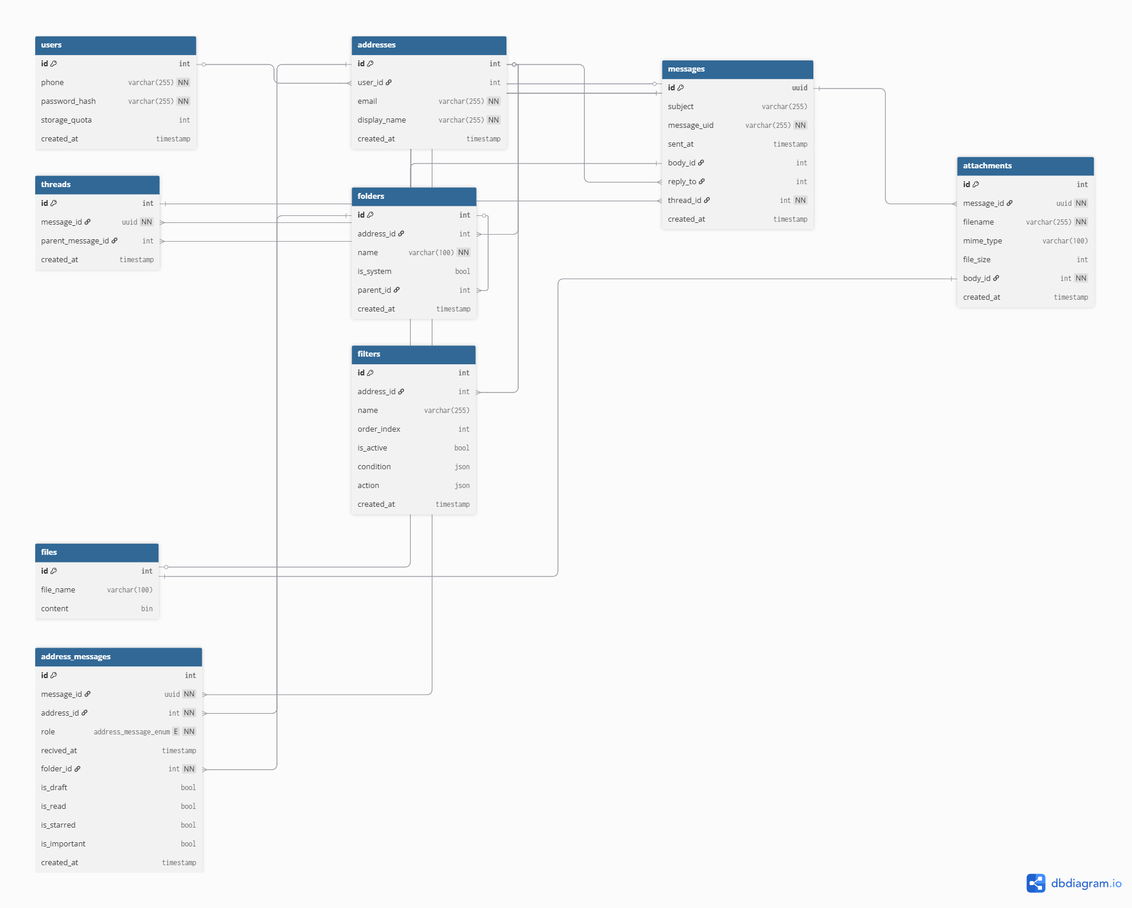
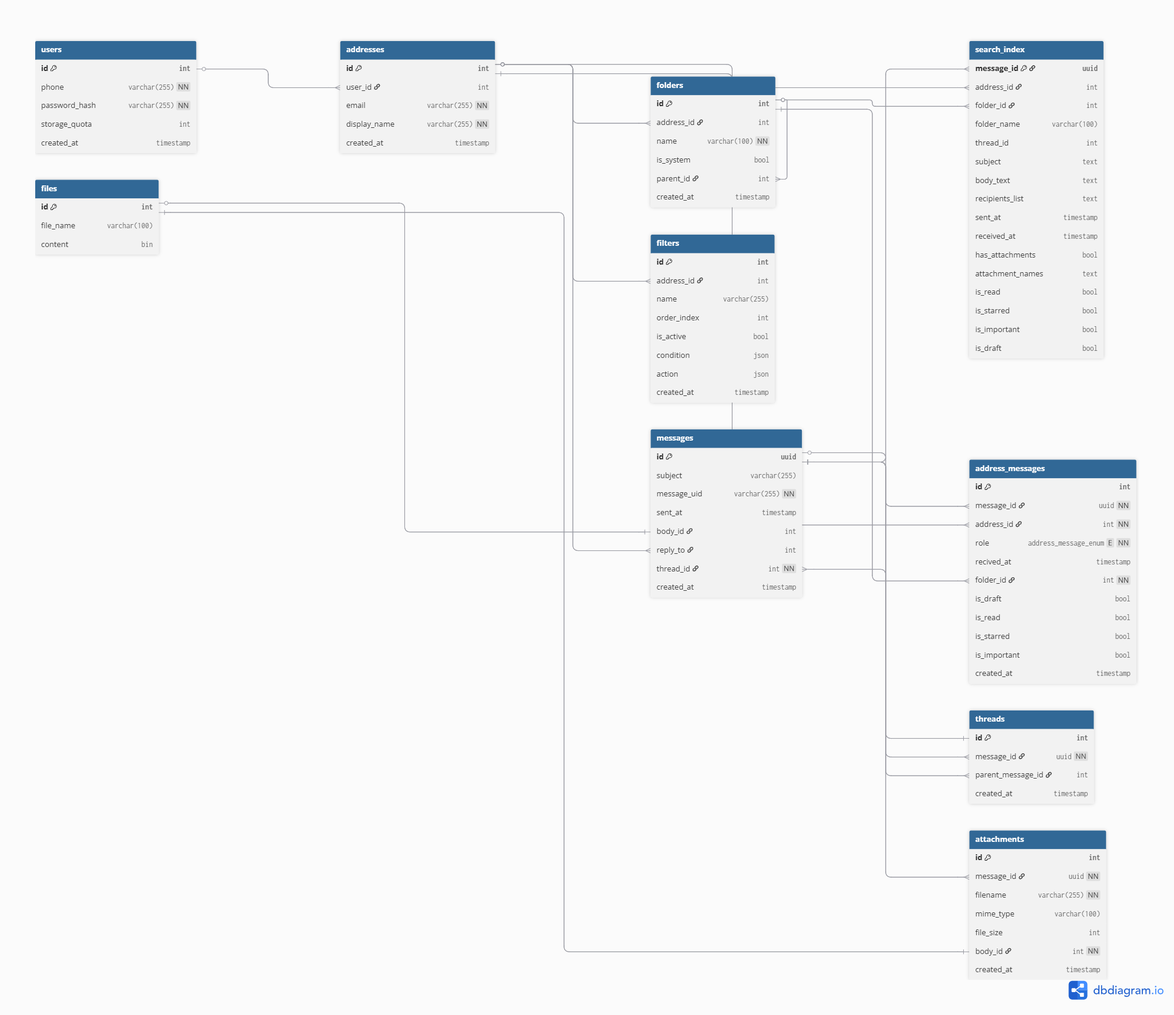
algos

diff --git a/README.md b/README.md
@@ -143,18 +143,19 @@ MailAPI имеет нагрузку 92 833 RPS [^4]
 ![Логическая схема](images/logic_scheme.png)
 [сслыка на схему](https://dbdiagram.io/d/email_db-69c4167f78c6c4bc7a699bbd)
 ### 5.2 Таблица с описанием таблиц
-| Таблица              | Описание                                               | Размер строки                                                                                                                        | Количество строк | Размер таблицы                           | Нагрузка на чтение (QPS, пик)                           | Нагрузка на запись (QPS, пик)                                                |
-|----------------------|--------------------------------------------------------|--------------------------------------------------------------------------------------------------------------------------------------|------------------|------------------------------------------|---------------------------------------------------------|------------------------------------------------------------------------------|
-| **`users`**          | Аккаунт пользователя                                   | id(8) + phone(255) + password_hash(255) + storage_quota(8) + created_at(8) = 534 Б                                                   | 0,250 млрд       | 534 Б × 250 000 000 = 133 ГБ             | 2 818                                                   | 2 818 × 0,05 = 141                                                           |
-| **`addresses`**      | Email-адреса (внутренние и внешние)                    | id(8) + user_id(8) + email(255) + display_name(255) + created_at(8) = 534 Б                                                          | 0,375 млрд       | 534 Б × 375 000 000 = 200 ГБ             | 2 818 + 8 054 + 5 236 + 802 = 16 910                    | (3 100 + 6 443) × 0,1 = 9 543 × 0,1 = 954                                    |
-| **`messages`**       | Метаданные письма                                      | id(8) + subject(255) + message_uid(255) + sent_at(8) + body_id(8) + reply_to(8) + thread_id(8) + is_draft(1) + created_at(8) = 543 Б | 110 млрд         | 543 Б × 110 000 000 000 = 54 ТБ          | 2 818 + 8 054 + 5 236 + 802 = 16 910                    | 3 100 + 6 443 = 9 543                                                        |
-| **`files`**          | Тело письма                                            | id(8) + content(76800) = 75 * 1024 + 8 = 76808 Б                                                                                     | 110 млрд         | 76808 Б × 110 000 000 000 = 7 684 ТБ     | 2 818 + 8 054 + 5 236 + 802 = 16 910                    | 3 100 + 6 443 = 9 543                                                        |
-| **`address_messages`**  | Связь письма с адресами и ролями, а также папка письма | id(8) + message_id(8) + address_id(8) + role(1) + folder_id(8) + is_read(1) + is_starred(1) + is_important(1) + created_at(8) = 50 Б | 275 млрд         | 50 Б × 275 000 000 000 = 17 ТБ           | 2 818 + 8 054 + 5 236 = 16 108                          | 3 100 × 3 + 6 443 = 9 300 + 6 443 = 15 743                                   |
-| **`attachments`**    | Вложения писем (в размере учтен вес самого вложения)   | id(8) + message_id(8) + filename(255) + mime_type(100) + file_size(8) + file_id(8) + created_at(8) + file(1024²) = 651 Б             | 33 млрд          | 651 Б × 33 000 000 000 = 19 ТБ           | 5 236                                                   | (3 100 + 6 443) × 0,3 = 9 543 × 0,3 = 2 863                                  |
-| **`files`**          | Файл вложения                                          | id(8) + content(1024²) =  1 048 576 Б                                                                                                | 33 млрд          | 1 048 576 Б × 33 000 000 000 = 31 471 ТБ | 5 236                                                   | (3 100 + 6 443) × 0,3 = 9 543 × 0,3 = 2 863                                  |
-| **`folders`**        | Папки пользователей (системные и пользовательские)     | id(8) + user_id(8) + name(100) + is_system(1) + parent_id(8) + created_at(8) = 133 Б                                                 | 0,5 млрд         | 133 Б × 500 000 000 = 66 ГБ              | 802 × 0,25 + 2 818 = 200 + 2 818 = 3 018                | 802 × 0,75 = 602                                                             |
-| **`threads`**        | Цепочки писем (диалоги)                                | id(8) + created_at(8) + last_message_at(8) = 24 Б                                                                                    | 55 млрд          | 24 Б × 55 000 000 000 = 1,3 ТБ           | 2 818 + 8 054 = 10 872                                  | 3 100 + 6 443 × 0,3 = 3 100 + 1 933 = 5 033                                  |
-| **`filters`**        | Правила фильтрации писем                               | id(8) + user_id(8) + name(255) + order_index(8) + is_active(1) + condition(256) + action(128) + created_at(8) = 672 Б                | 0,125 млрд       | 672 Б × 125 000 000 = 84 ГБ              | 802 × 0,8 + 8 054 = 642 + 8 054 = 8 696                 | 802 × 0,2 = 160                                                              |## Сслыки на источники
+| Таблица                | Описание                                               | Размер строки                                                                                                                        | Количество строк | Размер таблицы                           | Нагрузка на чтение (QPS, пик)                           | Нагрузка на запись (QPS, пик)                                                |
+|------------------------|--------------------------------------------------------|--------------------------------------------------------------------------------------------------------------------------------------|------------------|------------------------------------------|---------------------------------------------------------|------------------------------------------------------------------------------|
+| **`users`**            | Аккаунт пользователя                                   | id(8) + phone(255) + password_hash(255) + storage_quota(8) + created_at(8) = 534 Б                                                   | 0,250 млрд       | 534 Б × 250 000 000 = 133 ГБ             | 2 818                                                   | 2 818 × 0,05 = 141                                                           |
+| **`addresses`**        | Email-адреса (внутренние и внешние)                    | id(8) + user_id(8) + email(255) + display_name(255) + created_at(8) = 534 Б                                                          | 0,375 млрд       | 534 Б × 375 000 000 = 200 ГБ             | 2 818 + 8 054 + 5 236 + 802 = 16 910                    | (3 100 + 6 443) × 0,1 = 9 543 × 0,1 = 954                                    |
+| **`messages`**         | Метаданные письма                                      | id(8) + subject(255) + message_uid(255) + sent_at(8) + body_id(8) + reply_to(8) + thread_id(8) + is_draft(1) + created_at(8) = 543 Б | 110 млрд         | 543 Б × 110 000 000 000 = 54 ТБ          | 2 818 + 8 054 + 5 236 + 802 = 16 910                    | 3 100 + 6 443 = 9 543                                                        |
+| **`files`**            | Тело письма                                            | id(8) + content(76800) = 75 * 1024 + 8 = 76808 Б                                                                                     | 110 млрд         | 76808 Б × 110 000 000 000 = 7 684 ТБ     | 2 818 + 8 054 + 5 236 + 802 = 16 910                    | 3 100 + 6 443 = 9 543                                                        |
+| **`address_messages`** | Связь письма с адресами и ролями, а также папка письма | id(8) + message_id(8) + address_id(8) + role(1) + folder_id(8) + is_read(1) + is_starred(1) + is_important(1) + created_at(8) = 50 Б | 275 млрд         | 50 Б × 275 000 000 000 = 17 ТБ           | 2 818 + 8 054 + 5 236 = 16 108                          | 3 100 × 3 + 6 443 = 9 300 + 6 443 = 15 743                                   |
+| **`attachments`**      | Вложения писем (в размере учтен вес самого вложения)   | id(8) + message_id(8) + filename(255) + mime_type(100) + file_size(8) + file_id(8) + created_at(8) + file(1024²) = 651 Б             | 33 млрд          | 651 Б × 33 000 000 000 = 19 ТБ           | 5 236                                                   | (3 100 + 6 443) × 0,3 = 9 543 × 0,3 = 2 863                                  |
+| **`files`**            | Файл вложения                                          | id(8) + content(1024²) =  1 048 576 Б                                                                                                | 33 млрд          | 1 048 576 Б × 33 000 000 000 = 31 471 ТБ | 5 236                                                   | (3 100 + 6 443) × 0,3 = 9 543 × 0,3 = 2 863                                  |
+| **`folders`**          | Папки пользователей (системные и пользовательские)     | id(8) + user_id(8) + name(100) + is_system(1) + parent_id(8) + created_at(8) = 133 Б                                                 | 0,5 млрд         | 133 Б × 500 000 000 = 66 ГБ              | 802 × 0,25 + 2 818 = 200 + 2 818 = 3 018                | 802 × 0,75 = 602                                                             |
+| **`threads`**          | Цепочки писем (диалоги)                                | id(8) + created_at(8) + last_message_at(8) = 24 Б                                                                                    | 55 млрд          | 24 Б × 55 000 000 000 = 1,3 ТБ           | 2 818 + 8 054 = 10 872                                  | 3 100 + 6 443 × 0,3 = 3 100 + 1 933 = 5 033                                  |
+| **`filters`**          | Правила фильтрации писем                               | id(8) + user_id(8) + name(255) + order_index(8) + is_active(1) + condition(256) + action(128) + created_at(8) = 672 Б                | 0,125 млрд       | 672 Б × 125 000 000 = 84 ГБ              | 802 × 0,8 + 8 054 = 642 + 8 054 = 8 696                 | 802 × 0,2 = 160                                                              |## Сслыки на источники
+| **`search_index`**     | Индекс поиска                                          | id(8) + subject(255) + message_uid(255) + sent_at(8) + body_id(8) + reply_to(8) + thread_id(8) + is_draft(1) + created_at(8) = 543 Б | 110 млрд         | 543 Б × 110 000 000 000 = 54 ТБ          | 2 818 + 8 054 + 5 236 + 802 = 16 910                    | 3 100 + 6 443 = 9 543                                                        |
 
 ### 5.3 Требования к конситентности
 По отношению к отправителю все данные должны быть strict, чтобы при обновлении страницы изменения не могли пропасть. \
@@ -180,17 +181,18 @@ MailAPI имеет нагрузку 92 833 RPS [^4]
 ### 6.2 Индексы
 Индекс на primary key для каждой таблицы
 
-| Таблица                | Поле                           | Тип индекса                  | Обоснование                                                               |
-|------------------------|--------------------------------|------------------------------|---------------------------------------------------------------------------|
-| **`users`**            | `phone`                        | B-Tree (UNIQUE)              | Авторизация по телефону, уникальность                                     |
-| **`addresses`**        | `email`                        | B-Tree (UNIQUE)              | Поиск адреса при доставке и отправке и проверка при создании нового email |
-|                        | `user_id`                      | B-Tree                       | Получение всех адресов пользователя                                       |
-|                        | `address_id`                   | B-Tree                       | Получение всех писем пользователя                                         |
-| **`attachments`**      | `message_id`                   | B-Tree                       | Получение вложений письма                                                 |
-| **`address_messages`** | `folder_id`, `recived_at`      | B-Tree                       | сортировка фильтрация                                                     |
-| **`folders`**          | `user_id`, `name`, `parent_id` | B-Tree (UNIQUE, композитный) | Уникальность папки в пределах пользователя                                |
-|                        | `user_id`                      | B-Tree                       | Список пользовательских папок                                             |
-| **`filters`**          | `address_id`,                  | B-Tree (композитный)         | Применение  фильтров при доставке                                         |
+| Таблица               | Поле                           | Тип индекса     | Обоснование                                                            |
+|-----------------------|--------------------------------|-----------------|------------------------------------------------------------------------|
+| **`users`**           | `phone`                        | B-Tree (UNIQUE) | Авторизация по телефону, уникальность                                  |
+| **`addresses`**       | `email`                        | B-Tree (UNIQUE) | Поиск адреса при доставке и отправке и проверка при создании нового email |
+|                       | `user_id`                      | B-Tree          | Получение всех адресов пользователя                                    |
+|                       | `address_id`                   | B-Tree          | Получение всех писем пользователя                                      |
+| **`attachments`**     | `message_id`                   | B-Tree          | Получение вложений письма                                              |
+| **`address_messages`** | `folder_id`, `recived_at`      | B-Tree          | сортировка фильтрация                                                  |
+| **`folders`**         | `user_id`, `name`, `parent_id` | B-Tree (UNIQUE, композитный) | Уникальность папки в пределах пользователя                             |
+|                       | `user_id`                      | B-Tree          | Список пользовательских папок                                          |
+| **`filters`**         | `address_id`,                  | B-Tree (композитный) | Применение  фильтров при доставке                                      |
+| **`search_index`**    | `address_id`,                  | B-Tree          | Поиск для конкретного пользвателя                                      |
 
 ### 6.3 Денормализация
 Хранить список получателей/отправителей сразу в **`messages`**, а также хранить `thread_id`.\
@@ -200,15 +202,15 @@ MailAPI имеет нагрузку 92 833 RPS [^4]
 Хранить в **`users`** кол-во занимаемой памяти.
 
 ### 6.4 Выбор СУБД
-| Таблица                                                                                                                                  | СУБД                             | Обоснование                                        |
-|------------------------------------------------------------------------------------------------------------------------------------------|----------------------------------|----------------------------------------------------|
+| Таблица                                                                                                               | СУБД                             | Обоснование                                        |
+|-----------------------------------------------------------------------------------------------------------------------|----------------------------------|----------------------------------------------------|
 | `users`, <br/>`addresses`, <br/>`messages`, <br/>`address_messages`, <br/>`folders`,  <br/>`threads`, <br/> `filters` | PostgreSQL                       | Нужны транзакции                                   | 
-| `files`                                                                                                                                  | Объектное хранилище (S3 / MinIO) | Будут хранится вложения и тело писем               |
-| `sessions`                                                                                                                               | Redis                            | Подходит для хранения временных сессий авторизации |
-| `email_search`                                                                                                                           | Elasticsearch                    | Подходит для поисковых индексов                    | 
-| `addresses`                                                                                                                              | Redis                            | поиск email по address_id                          | 
-| `folders`                                                                                                                                | Redis                            | агрегированные данные папок                        | 
-| `events`                                                                                                                                 | Kafka/RabbitMQ                   | для асинхронной обработки доставки и уведомлений   | 
+| `files`                                                                                                               | Объектное хранилище (S3 / MinIO) | Будут хранится вложения и тело писем               |
+| `sessions`                                                                                                            | Redis                            | Подходит для хранения временных сессий авторизации |
+| `search_index`                                                                                                        | Elasticsearch                    | Подходит для поисковых индексов                    | 
+| `addresses`                                                                                                           | Redis                            | поиск email по address_id                          | 
+| `folders`                                                                                                             | Redis                            | агрегированные данные папок                        | 
+| `events`                                                                                                              | Kafka/RabbitMQ                   | для асинхронной обработки доставки и уведомлений   | 
 
 ### 6.5 Шардирование и резервировние СУБД
 Для всех основных SQL таблицы  шардирование по address_id, также каждый получатель/отправитель имеет свою копию **`message`** в своем шарде, \
@@ -239,6 +241,7 @@ MailAPI имеет нагрузку 92 833 RPS [^4]
 | **`folders`**          | `address_id` , `name`, `parent_id` (UNIQUE) | `address_id`      |
 | **`filters`**          | `address_id`                                | `address_id`      |
 | **`attachments`**      | `message_id`                                | `message_id`      |
+| **`search_index`**     | `address_id`                                | `address_id`      |
 | **`threads`**          | `id` (PRIMARY)                              | `id`              |
 
 | Операция          | Обоснование                                                                                                                            | Использованные ключи                              |
@@ -286,6 +289,8 @@ MailAPI имеет нагрузку 92 833 RPS [^4]
 Решение: если пользователь удалил верхнее сообщение, то тогда бд выполняет оферхед для нахождения первого не удаленного(оценить оверхед).
 -->
 ## 7. Алгоритмы
+
+<!--  
 Алгоритм хранения, представление и построения треда в почте.
 
 ### 7.1 Наименование алгоритма, метода или принятого подхода
@@ -310,19 +315,17 @@ MailAPI имеет нагрузку 92 833 RPS [^4]
 Дерево треда или линейное представление.
 Сортировка в представлении по времени.
 В древовидном представлении не должно быть пробелов и должны прослеживаться все связи треда.
-
+-->
 ### 7.5 Последовательность работы алгоритма
+**Привью треда:**  
 1. Группировка полученных сообщений по тредам.  
 2. По первому сообщений находится id треда по `tread_id` в таблице **messages**  
-
-Далее два варианта:  
-
-Привью треда:  
 3. В таблице находится денормализованное поле `last_message_id`.  
 4. Если оно доступно для пользователя привью становиться это сообщения
-если нет, проходясь по всем сообщениям треда находится первое доступное
+если нет, проходясь по всем сообщениям треда находится первое доступное  
+
  
-Построения треда:  
+**Построения треда:**  
 3. Далее находятся все недостающие сообщения треда по `message_id` в таблице **treads**  
 4. Фильтруются с помощью таблицы **address_messages** сообщения не уделанные и доступные пользователю   
 5. Тред передается списком каждый элемент содержит время получения, id сообщения и id родительского сообщения,
@@ -350,16 +353,16 @@ MailAPI имеет нагрузку 92 833 RPS [^4]
 
 ## 8. Технологии
 ### Сводная таблица
-| Технология                           | Область применения                | Мотивационная часть                                                                                                                                                                                     |
-|:-------------------------------------|:----------------------------------|:--------------------------------------------------------------------------------------------------------------------------------------------------------------------------------------------------------|
-| **React**                            | Frontend                          | Статическая типизация TypeScript снижает количество ошибок в коде, а компонентная модель React с виртуальным DOM эффективно обновляет список чатов и историю переписки без перерисовки всего интерфейса |
-| **Go**                               | Backend                           | Удобное распараллеливание задач, быстрота                                                                                                                                                               |
-| **Nginx**                            | L7-балансировщик, SSL Termination | Отдача статики, балансировка, проксирование                                                                                                                                                             |
-| **PostgreSQL**                       | Реляционная БД                    | ACID-транзакции                                                                                                                                                                                         |
-| **Elasticsearch**                    | Поисковые индексы                 | Быстрый полнотекстовый поиск                                                                                                                                                                            |
-| **Redis**                            | In memory хранилище               | In-memory хранилище для быстрого доступа к сессиям                                                                                                                                                      |
-| **Kafka**                            | Брокер сообщений                  | Асинхронная доставка писем, уведомлений                                                                                                                                                                 |
-| **MinIO (S3-совместимое хранилище)** | Объектное хранилище               | Для хранения вложений писем                                                                                                                                                                             |
+| Технология                               | Область применения                | Мотивационная часть                                                                                                                                                                                     |
+|:-----------------------------------------|:----------------------------------|:--------------------------------------------------------------------------------------------------------------------------------------------------------------------------------------------------------|
+| **React**                                | Frontend                          | Статическая типизация TypeScript снижает количество ошибок в коде, а компонентная модель React с виртуальным DOM эффективно обновляет список чатов и историю переписки без перерисовки всего интерфейса |
+| **Go**                                   | Backend                           | Удобное распараллеливание задач, быстрота                                                                                                                                                               |
+| **Nginx**                                | L7-балансировщик, SSL Termination | Отдача статики, балансировка, проксирование                                                                                                                                                             |
+| **PostgreSQL**                           | Реляционная БД                    | ACID-транзакции                                                                                                                                                                                         |
+| **Elasticsearch**                        | Поисковые индексы                 | Быстрый полнотекстовый поиск                                                                                                                                                                            |
+| **Redis**                                | In memory хранилище               | In-memory хранилище для быстрого доступа к сессиям                                                                                                                                                      |
+| **Kafka**                                | Брокер сообщений                  | Асинхронная доставка писем, уведомлений                                                                                                                                                                 |
+| **SeaweedFS (S3-совместимое хранилище)** | Объектное хранилище               | Для хранения вложений писем                                                                                                                                                                             |
 
 ## 8. Схема проекта 
 ![Cхема сервисов](images/service_scheme.jpg)
